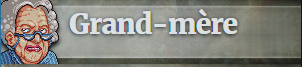
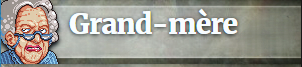
Changement bouton
Les boutons ont été changer, il faut revoir la taille

Changed region(s): [[0.0, 0.0299, 0.8046, 0.9552], [0.6556, 0.1194, 0.6854, 0.2388]]

diff --git a/CookieClicker/MainWindow.xaml b/CookieClicker/MainWindow.xaml
@@ -204,12 +204,20 @@
                     <ColumnDefinition Width="Auto"/>
                 </Grid.ColumnDefinitions>
                 <StackPanel Grid.Column="0" Orientation="Vertical">
-                    <Button Content="Options" FontSize="16" FontWeight="Bold" Background="Transparent" Foreground="White" Margin="0" Click="OptionsButton_Click"/>
-                    <Button Content="Statistiques" FontSize="16" FontWeight="Bold" Background="Transparent" Foreground="White" Margin="0"/>
+                    <Button x:Name="OptionsButton" FontSize="16" FontWeight="Bold" Background="Transparent" Foreground="White" Margin="0" Click="OptionsButton_Click">
+                        <Image Source="pack://application:,,,/Images/Option.png" Stretch="Fill" />
+                    </Button>
+                    <Button x:Name="StatsButton" FontSize="16" FontWeight="Bold" Background="Transparent" Foreground="White" Margin="0">
+                        <Image Source="pack://application:,,,/Images/Statistiques.png" Stretch="Fill" />
+                    </Button>
                 </StackPanel>
                 <StackPanel Grid.Column="2" Orientation="Vertical" HorizontalAlignment="Right">
-                    <Button Content="Infos" FontSize="16" FontWeight="Bold" Background="Transparent" Foreground="White" Margin="0"/>
-                    <Button Content="Héritage" FontSize="16" FontWeight="Bold" Background="Transparent" Foreground="White" Margin="0"/>
+                    <Button x:Name="InfoButton" FontSize="16" FontWeight="Bold" Background="Transparent" Foreground="White" Margin="0">
+                        <Image Source="pack://application:,,,/Images/Info.png" Stretch="Fill" />
+                    </Button>
+                    <Button x:Name="LegacyButton" FontSize="16" FontWeight="Bold" Background="Transparent" Foreground="White" Margin="0">
+                        <Image Source="pack://application:,,,/Images/Heritage.png" Stretch="Fill" />
+                    </Button>
                 </StackPanel>
             </Grid>
         </Grid>

diff --git a/CookieClicker/MainWindow.xaml.cs b/CookieClicker/MainWindow.xaml.cs
@@ -15,7 +15,7 @@ namespace CookieClicker
         private readonly Assets item2;
         private readonly Assets item3;
         private readonly Assets item4;
-        private GoldenCookie goldenCookie;
+        private GoldenCookie? goldenCookie;
 
         private readonly DispatcherTimer timer;
         private readonly DispatcherTimer goldenCookieTimer;
